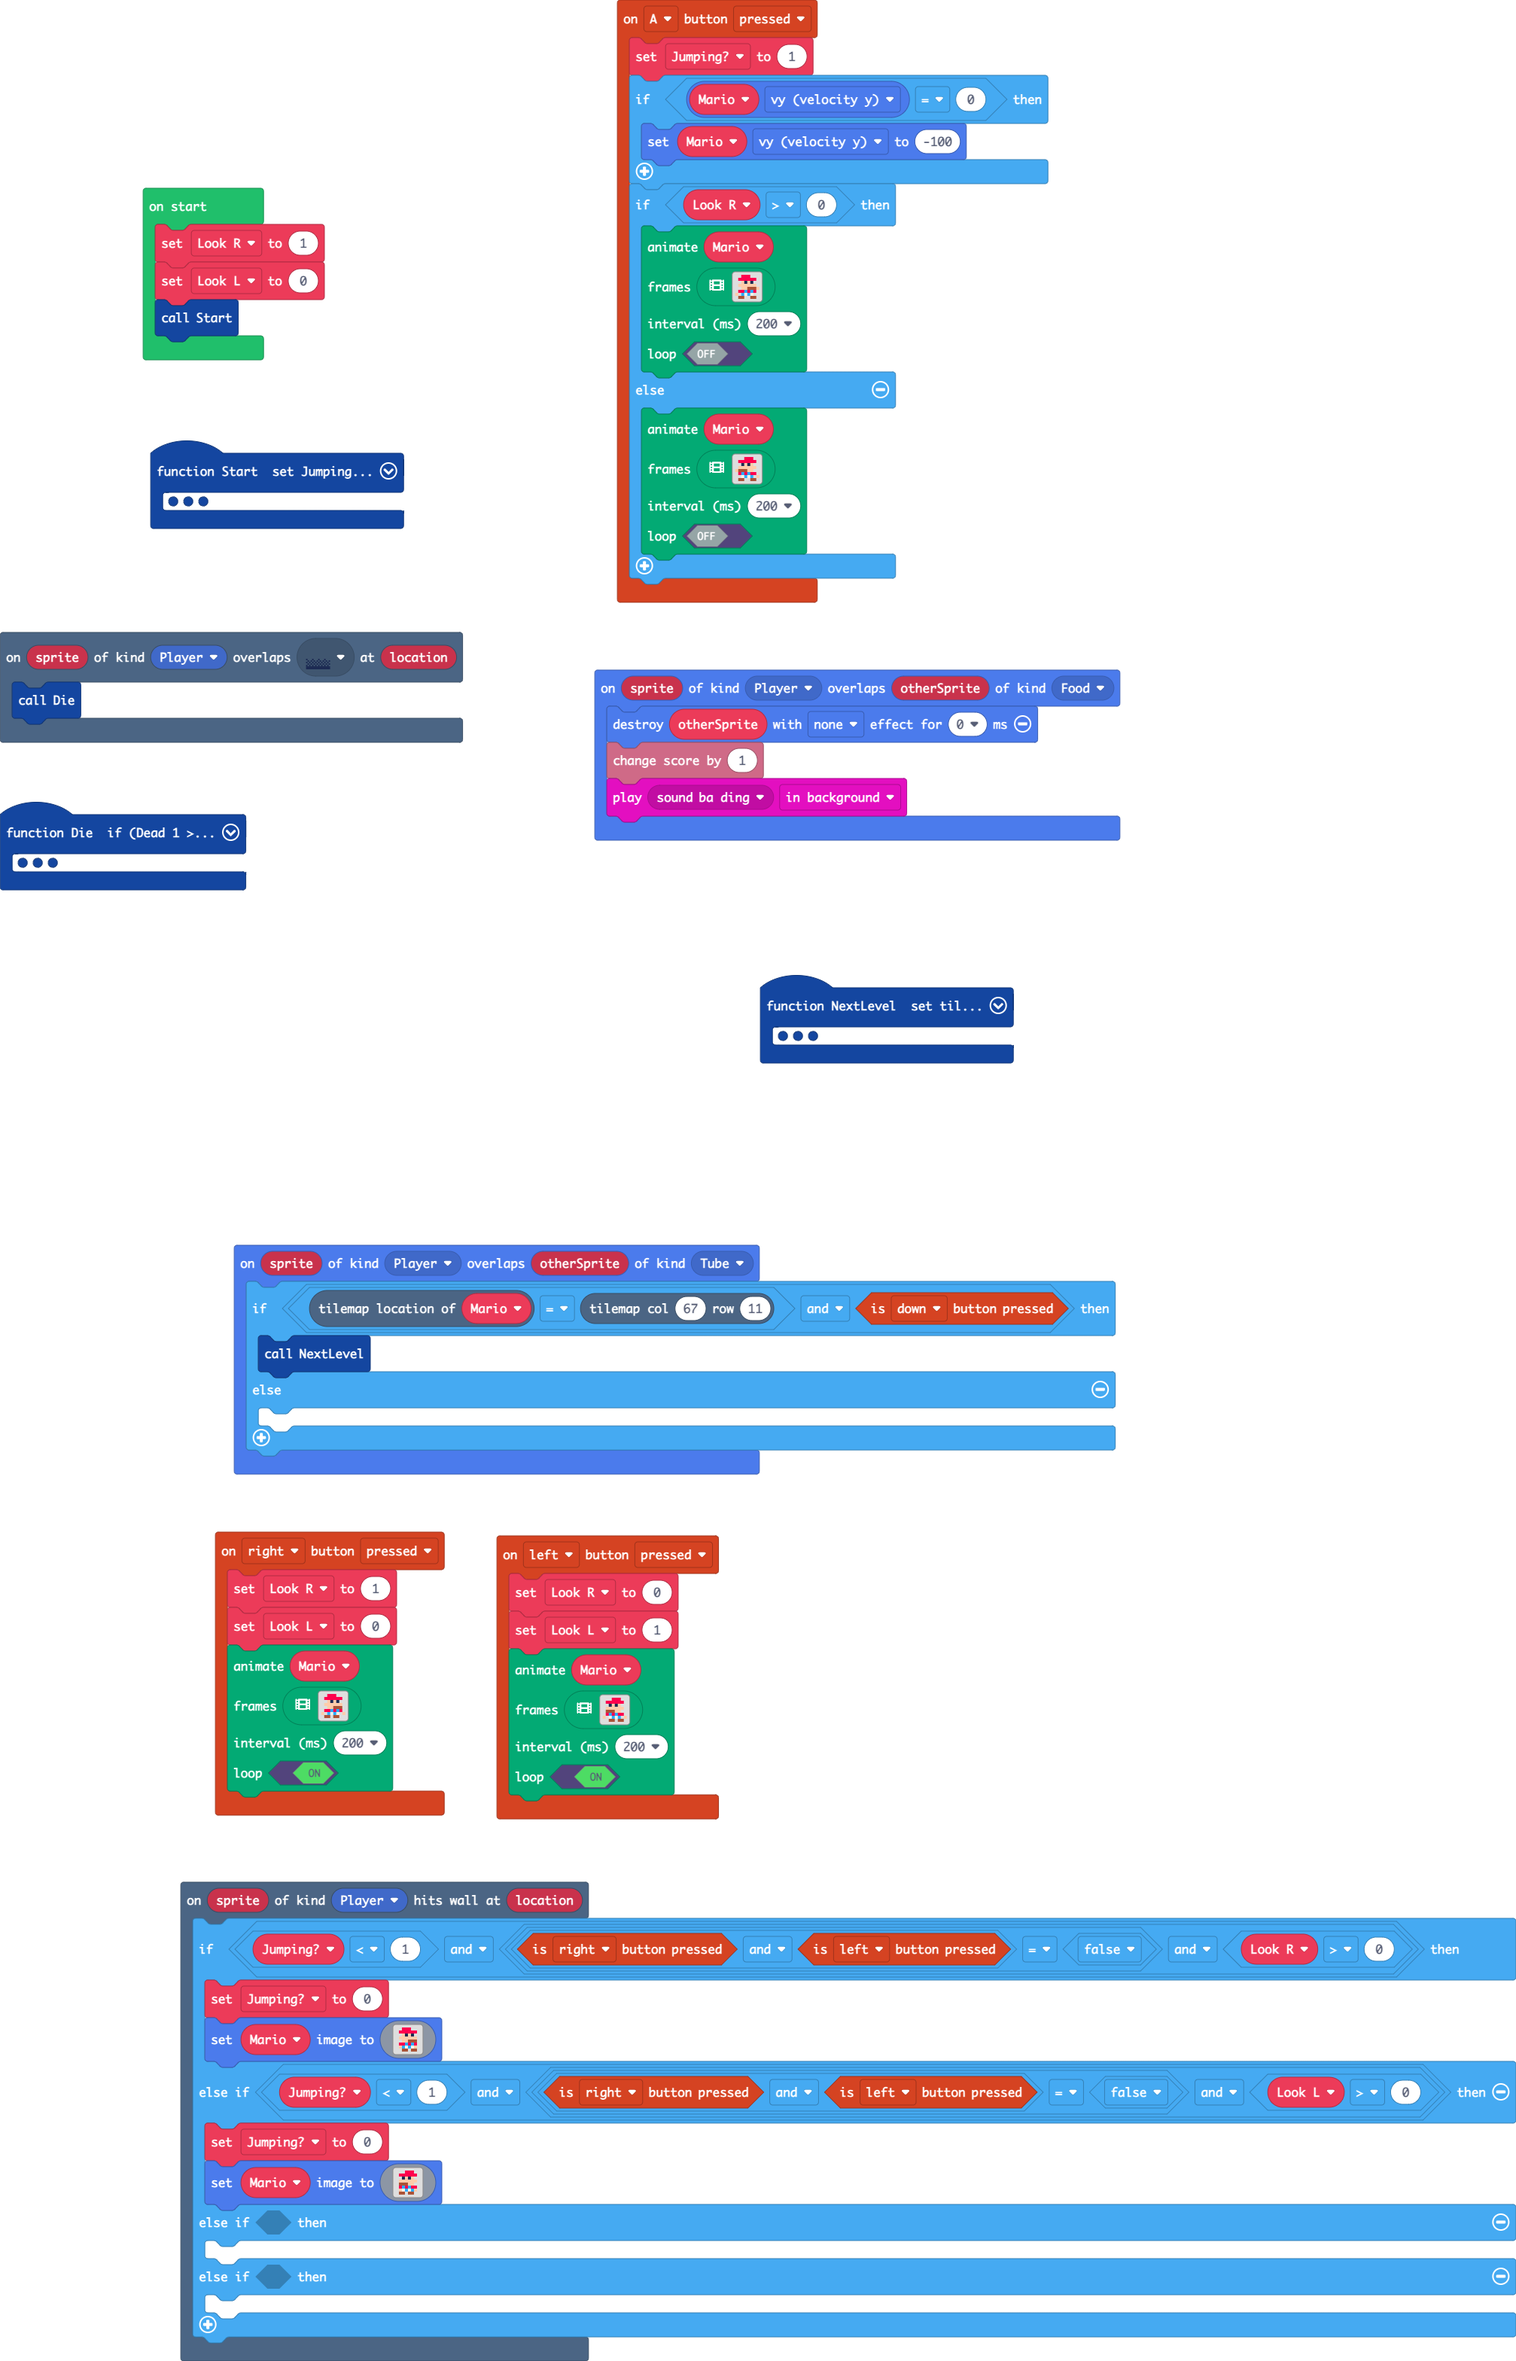
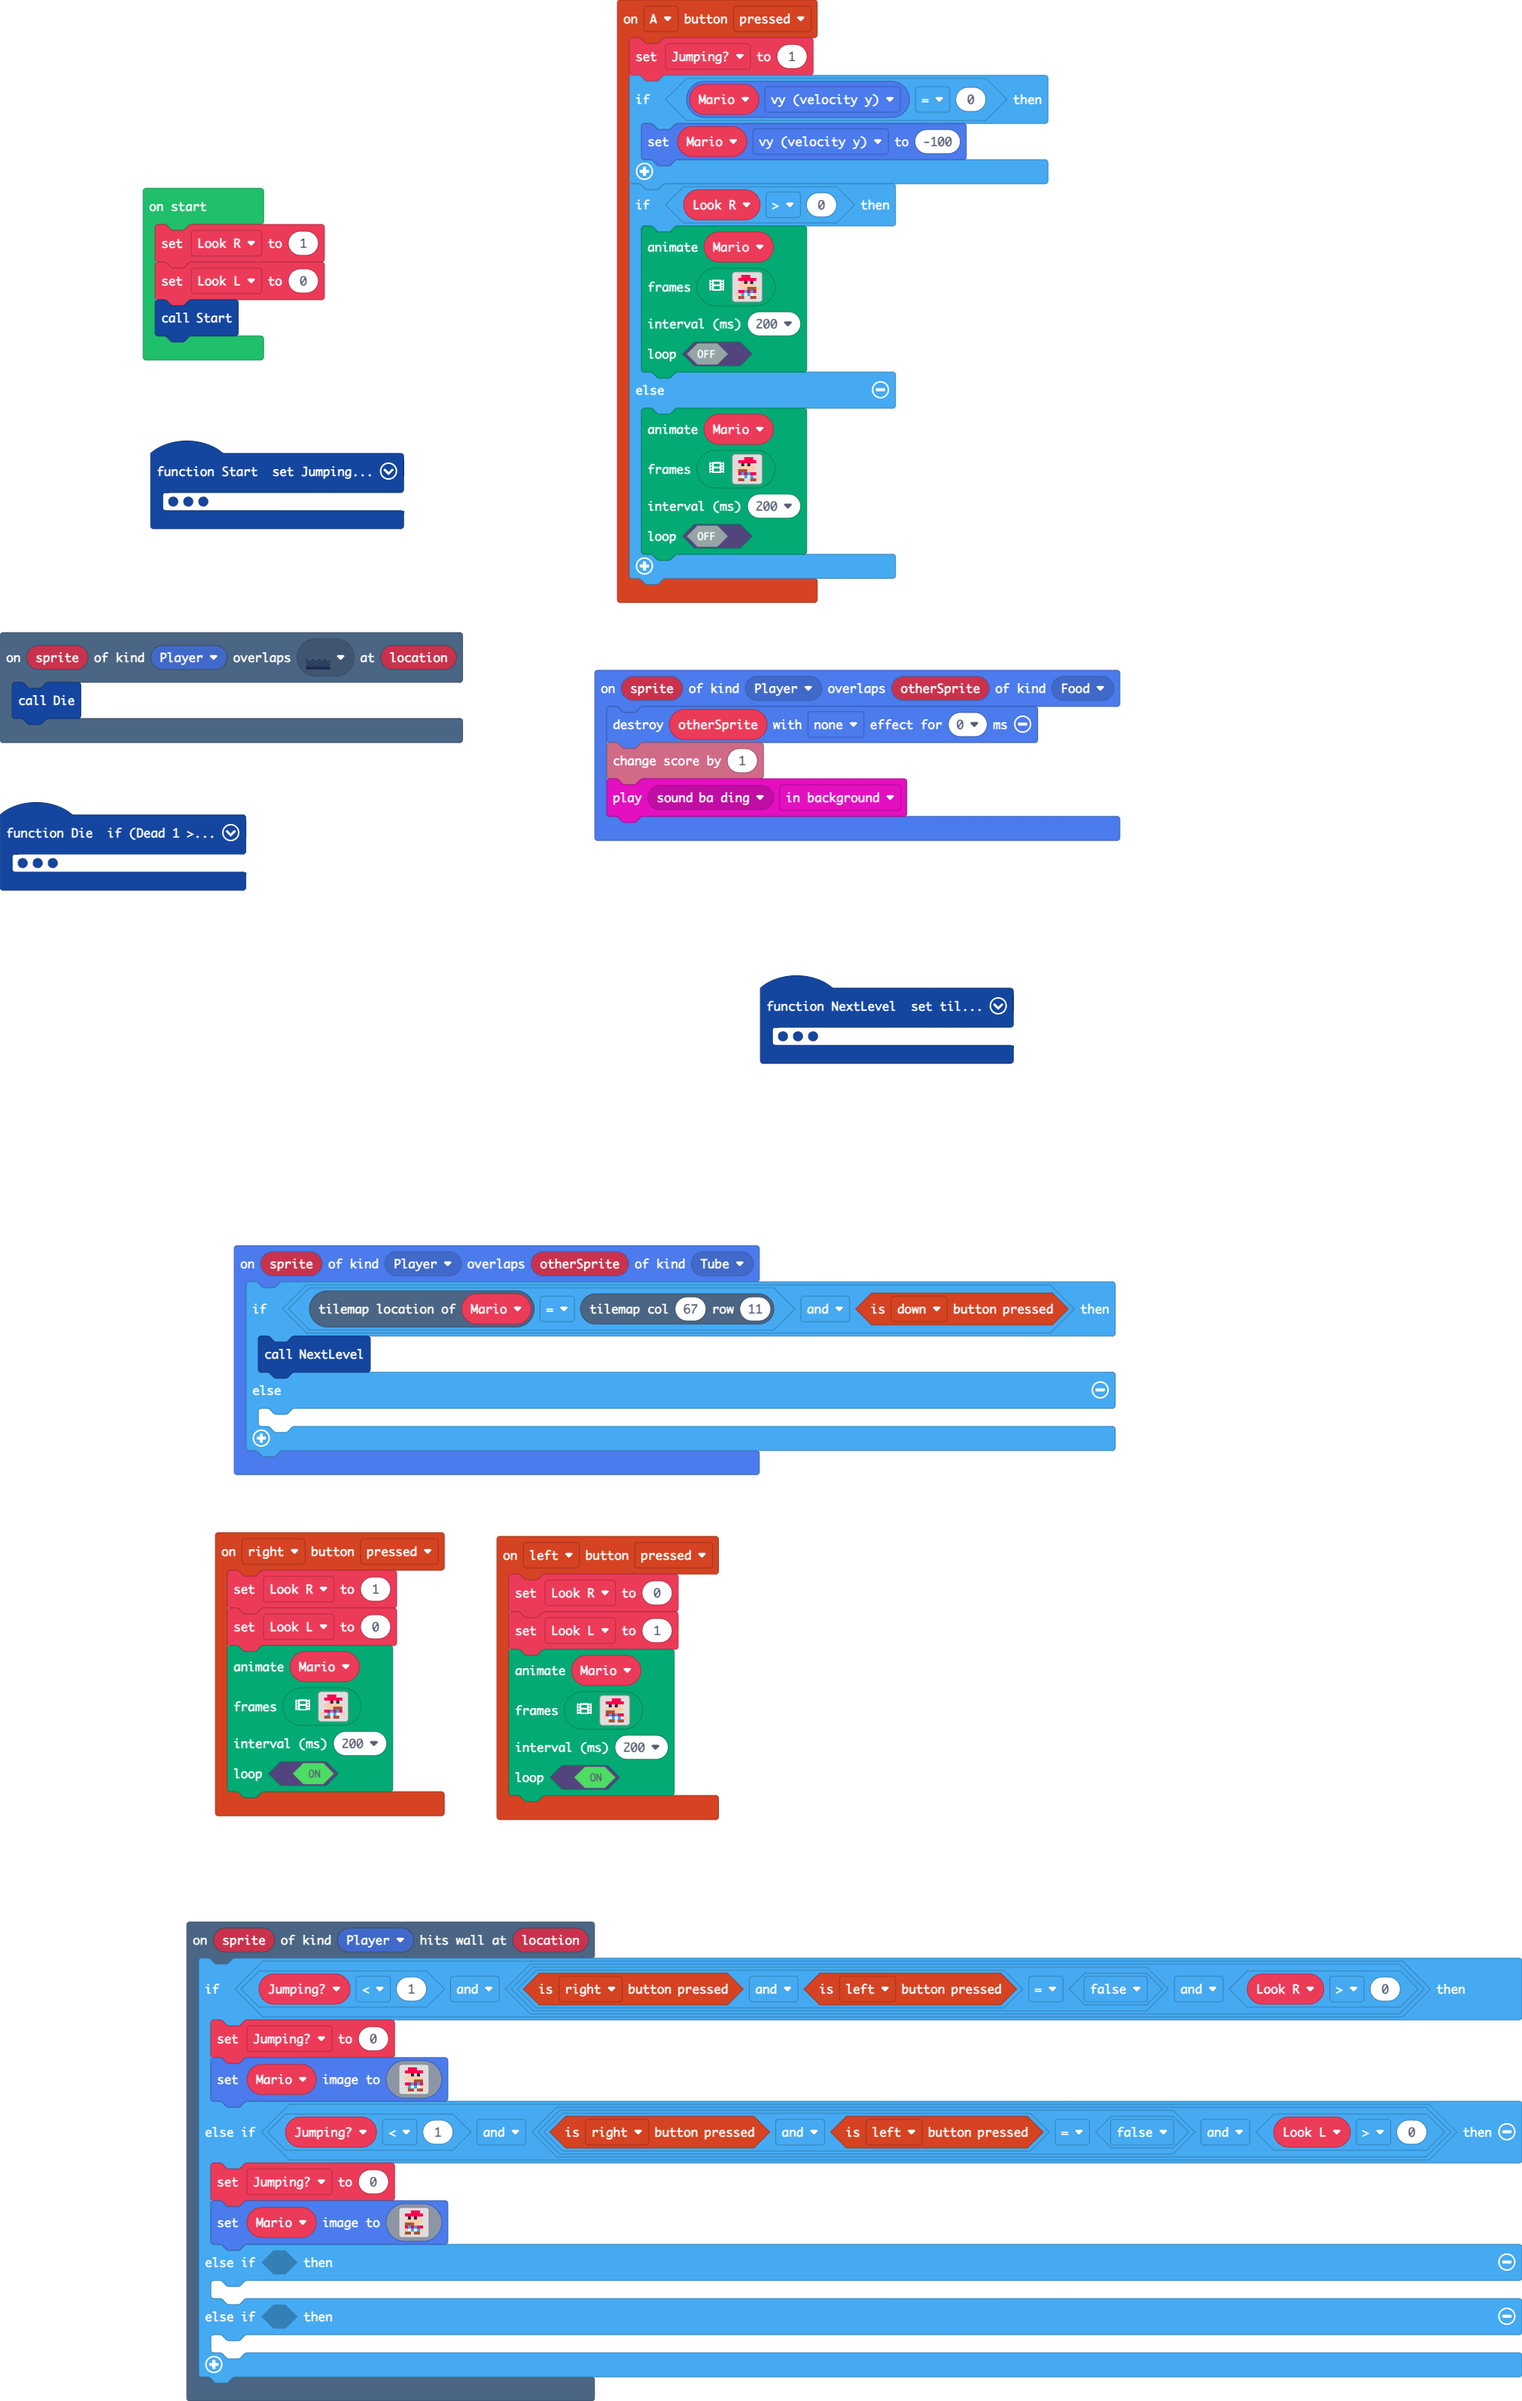
Update main.blocks, main.ts, images.g.jres, images.g.ts

diff --git a/images.g.ts b/images.g.ts
@@ -25,25 +25,6 @@ namespace myImages {
 . d 1 8 1 8 d . 
 . e e . e e . . 
 `;
-            case "image2":
-            case "Castle":return img`
-. . . . . . . . . . . . . . . . 
-. . . . . . . . . . . . . . . . 
-. e . f e . a . . e . f e . a . 
-e e e e e e f a e e e e e e f a 
-e c c e e e a f e c e c e e a f 
-e e e e e e e e e e e e e e c c 
-. e c c e c e c e e c c c c c e 
-. e e e e e e e e e e e e c e c 
-. e e c e f f f e e c c e c c e 
-. e e e f f f f f e e e c c e c 
-. e e f f f f f f f e e e c c e 
-. e c f f f f f f f c e e c e c 
-. e e f f f f f f f e e e c c e 
-. e e f f f f f f f e c e c e c 
-. e e f f f f f f f e e e c c e 
-. e c f f f f f f f e e e c e c 
-`;
             case "image3":
             case "Q-Block":return img`
 a 9 9 9 9 9 9 9 9 9 9 9 9 9 9 a 
@@ -63,6 +44,25 @@ a 9 9 9 9 9 9 9 9 9 9 9 9 9 9 a
 9 4 4 4 4 4 4 4 d 4 4 4 4 4 4 9 
 a 9 9 9 9 9 9 9 9 9 9 9 9 9 9 a 
 c c c c c c c c c c c c c c c c 
+`;
+            case "image2":
+            case "Castle":return img`
+. . . . . . . . . . . . . . . . 
+. . . . . . . . . . . . . . . . 
+. e . f e . a . . e . f e . a . 
+e e e e e e f a e e e e e e f a 
+e c c e e e a f e c e c e e a f 
+e e e e e e e e e e e e e e c c 
+. e c c e c e c e e c c c c c e 
+. e e e e e e e e e e e e c e c 
+. e e c e f f f e e c c e c c e 
+. e e e f f f f f e e e c c e c 
+. e e f f f f f f f e e e c c e 
+. e c f f f f f f f c e e c e c 
+. e e f f f f f f f e e e c c e 
+. e e f f f f f f f e c e c e c 
+. e e f f f f f f f e e e c c e 
+. e c f f f f f f f e e e c e c 
 `;
         }
         return null;

diff --git a/main.ts b/main.ts
@@ -1,6 +1,7 @@
 namespace SpriteKind {
     export const Tube = SpriteKind.create()
     export const Block = SpriteKind.create()
+    export const Forterss = SpriteKind.create()
 }
 scene.onHitWall(SpriteKind.Player, function (sprite, location) {
     if (Jumping < 1 && ((controller.right.isPressed() && controller.left.isPressed()) == false && Look_R > 0)) {
@@ -127,6 +128,8 @@ function Start () {
         true
         )
     }
+    Castle = sprites.create(assets.image`Castle`, SpriteKind.Forterss)
+    tiles.placeOnTile(Castle, tiles.getTileLocation(158, 13))
     Mario = sprites.create(assets.image`Mario`, SpriteKind.Player)
     scene.cameraFollowSprite(Mario)
     controller.moveSprite(Mario, 75, 0)
@@ -170,6 +173,7 @@ sprites.onOverlap(SpriteKind.Player, SpriteKind.Food, function (sprite, otherSpr
     info.changeScoreBy(1)
     music.play(music.melodyPlayable(music.baDing), music.PlaybackMode.InBackground)
 })
+let Castle: Sprite = null
 let coins: Sprite = null
 let Tube: Sprite = null
 let _Block: Sprite = null
